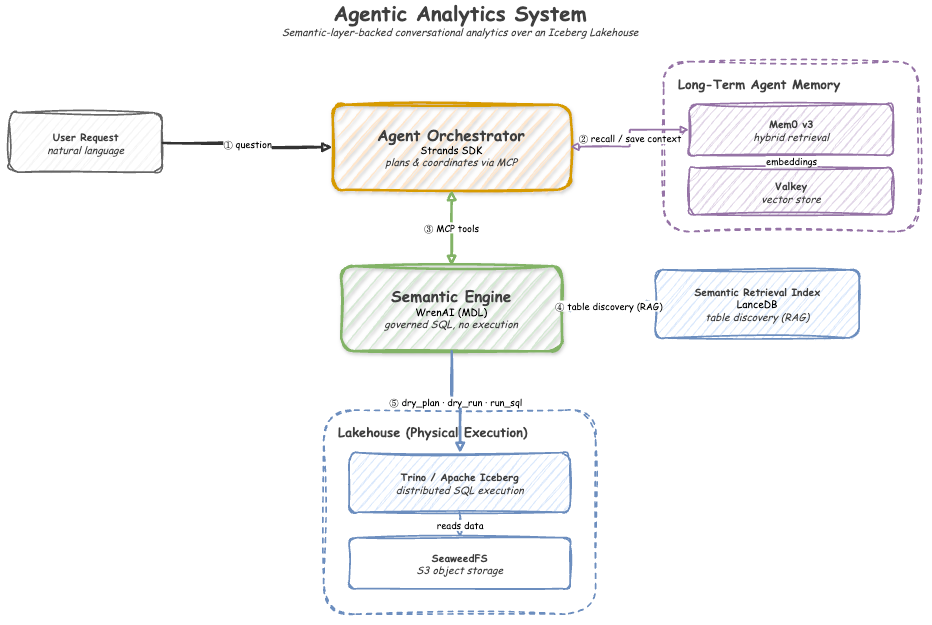
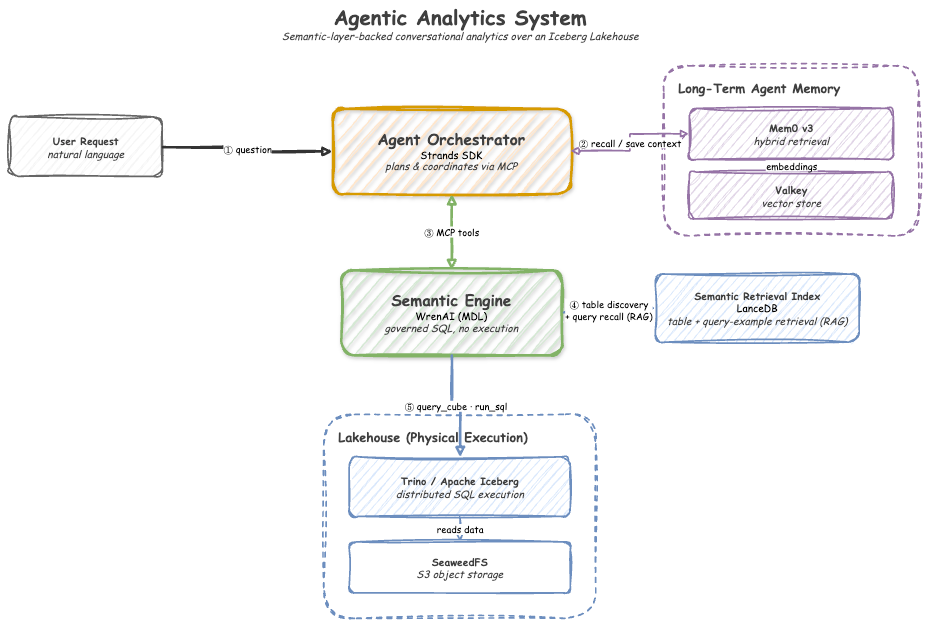
update feature image

Changed region(s): [[0.0, 0.0912, 0.9989, 1.0], [0.3122, 0.0, 0.6868, 0.0608]]

diff --git a/content/blog/2026-07-18-agentic-analytics-system/index.md b/content/blog/2026-07-18-agentic-analytics-system/index.md
@@ -47,6 +47,10 @@ I evaluated several options (WrenAI, Vanna AI, Nao, and MetricFlow) and selected
 
 The stack is fully decoupled. An AI orchestrator interprets requests and talks to the semantic engine over the Model Context Protocol (MCP). The semantic engine plans deterministic queries from its business models and vector memory, and those queries execute against the physical lakehouse.
 
+![Agentic Analytics System architecture: a Strands orchestrator coordinates the WrenAI semantic engine, LanceDB retrieval, and Mem0 memory over MCP, with queries executing against Trino, Iceberg, and SeaweedFS.](featured.png#center)
+
+The diagram above traces a request end to end, and the table below maps each component to its role.
+
 | Component | Technology | Role |
 |:---|:---|:---|
 | Agent Orchestrator | Strands SDK | Interprets natural language, plans multi-step tool calls, coordinates the pipeline over MCP |